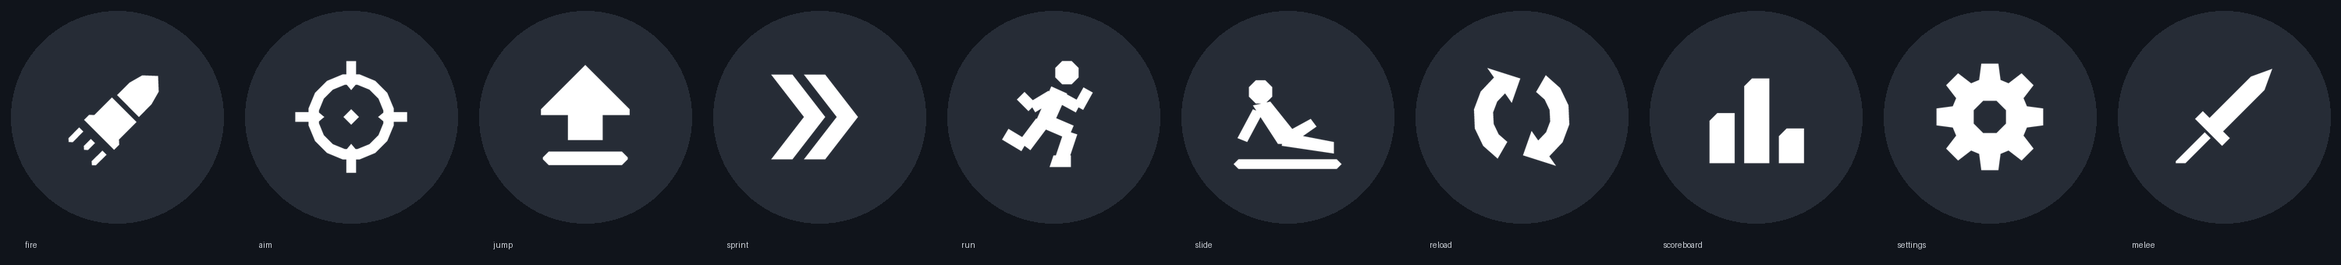
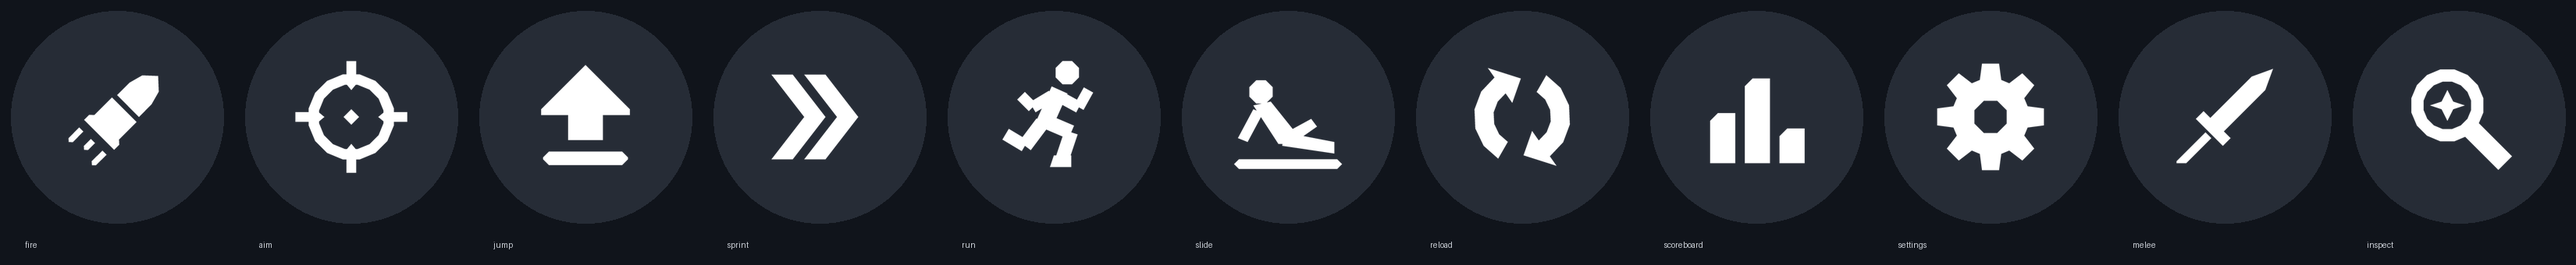
Mobile controls mockup v2: compact firing cluster, real TopBar, ammo readout, Inspect
Mods on one arc round Fire; the real match TopBar at phone scale with a
width cap that clears Settings and the weapon slots (info line hidden on
phones: it drew at 7 px); desktop-style ammo readout under the equipped
slot; Settings in the top-bar row, Scoreboard and a new Inspect icon
under Roblox's buttons.

diff --git a/tools/ui/make_touch_icons.py b/tools/ui/make_touch_icons.py
@@ -194,6 +194,16 @@ def melee():
     return finish(img)
 
 
+def inspect():
+    """A faceted magnifier with a cut handle (Inspect the gun)."""
+    img, d = canvas()
+    poly(d, ngon(26, 26, 19, 16, 11.25))
+    poly(d, ngon(26, 26, 12.5, 16, 11.25), CLEAR)
+    poly(d, limb((38, 38), (56, 56), 10))
+    poly(d, [(26, 18), (29, 24), (35, 26), (29, 28), (26, 34), (23, 28), (17, 26), (23, 24)])  # a glint
+    return finish(img)
+
+
 ICONS = {
     "touch_fire": fire,
     "touch_aim": aim,
@@ -205,6 +215,7 @@ ICONS = {
     "touch_scoreboard": scoreboard,
     "touch_settings": settings,
     "touch_melee": melee,
+    "touch_inspect": inspect,
 }
 
 

diff --git a/vault/02 Art/UI Mobile Controls.md b/vault/02 Art/UI Mobile Controls.md
@@ -1,6 +1,6 @@
 # Mobile controls: concept (2026-11-22)
 
-**Status (2026-11-22):** mockup v1 built in Studio (phone, small phone and iPad captures below), waiting on the owner's review. Then the build (§7).
+**Status (2026-11-22):** mockup v2 built in Studio after the owner's review (compact firing cluster, real TopBar, new ammo readout, Inspect). Waiting on the owner's playtest notes, then the build (§7).
 **Owner brief (2026-11-22):** custom, good-looking touch UI with icons, similar to RIVALS (custom jump button and everything), changed where our game needs it. **On mobile, ADS and sprint are always toggles** (no hold option).
 
 Read first: [Rivals Mobile UI](../03%20Research/UI%20References/Rivals%20Mobile%20UI.md) (video study + the 2026-11-22 Studio read of their editor), [UI Theme v4 Soft Edge](UI%20Theme%20v4%20Soft%20Edge.md) §6-7, [UI Architecture](../04%20Tech/UI%20Architecture.md) (layers, Touch layer), LihFolk *Mobile Button Layout Editor*, *Touch Gestures*, *Input - UserInputService and ContextActionService*.
@@ -107,6 +107,26 @@ The 43 / 41 px slots get the +20% invisible hit box (≈ 52 / 49 px). RIVALS' ta
 3. Do the icons read? Is anything off-taste?
 4. Sprint button placement (above-left of the stick).
 5. Should NetStats (top-right in the top-bar row) move on phones, since the weapon slots sit there now?
+
+## Mockup v2 (2026-11-22, after the owner's review: "looks good, I like it")
+Owner notes:
+1. More compact in the firing area (worried the Mods won't look good; will playtest).
+2. Don't change the UI too much: the top bar with score and timer should stay similar.
+3. The ammo count needs to look better.
+4. Add an inspect button next to settings and scoreboard. Then: keep settings at the top, and put the other two under the Roblox buttons.
+
+![](References/ui/touch/touch-mockup-v2-844x390.jpg)
+
+Changes:
+- **Firing cluster:** the three Mods sit on one arc round Fire (0.245 of the cluster from Fire's centre, at 196° / 244° / 292°). Reload, Slide and Aim moved in. The cluster now spans 0.21-0.96 of its width instead of 0.09-0.96, and its top is at 0.24 instead of 0.04. Every gap is at least 8 px at 390.
+- **Top bar:** the **real match TopBar** (`UI.Match.TopBar.Root`), not a placeholder.
+  - Phone fit = 11.5% of the height, capped so the bar clears Settings and the weapon slots: `min(0.115 H / 80, (W − 2 × (0.46 H + 8)) / barWidth)`. That gives 0.561 at 844×390 and 0.443 at 667×375 (2v2).
+  - On phones the "ROUND n · tier" line under the clock is hidden, because it drew at 7.3 / 5.5 px. The clock centres. Scores draw at 28 px and the clock at 19 px. The round still shows in the round banner.
+- **Ammo:** the desktop readout's look under the equipped slot (a big heavy count, a grey `/reserve`, a magazine bar on a dark plate). The other guns keep a small outlined count on their slot.
+- **Settings row:** Settings sits beside Roblox's buttons in the top-bar row; Scoreboard and the new **Inspect** (a faceted magnifier with a glint) sit in a row under Roblox's buttons, like RIVALS. The real controller places Settings from `GuiService.TopbarInset`.
+- Builder updated (`tools/studio/BuildTouchMockup.luau` rebuilds v2); inspect icon added to `make_touch_icons.py`.
+
+**For the build:** the TopBar's phone fit rule and the hidden info line belong in `TopBarController`; the Settings position comes from `TopbarInset`; tablets keep the 0.78 factor.
 
 ## 7. Build steps (after picks)
 1. Icon sheet (SVG) → owner review → upload.
